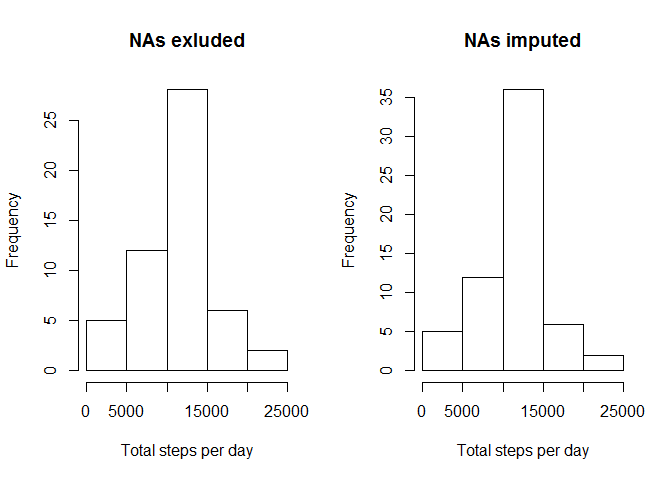
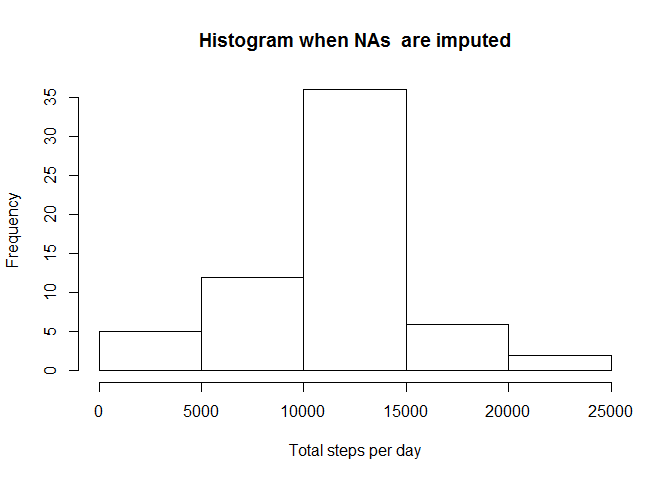
changed to a few graphs

diff --git a/PA1_template.html b/PA1_template.html
@@ -139,23 +139,24 @@ head(dataTr,5)</code></pre>
 <h5>Differences</h5>
 <pre class="r"><code>dataTrGrp &lt;- summarize(group_by(dataTr, date), sum(steps.impute))
 setnames(dataTrGrp, &quot;sum(steps.impute)&quot;, &quot;colstepsPerDay&quot;)
-par(mfcol = c(1,2))
 
 ## Histogram
-hist(stepsPerDay$colstepsPerDay, 
-     xlab=&quot;Total steps per day&quot;,  
-     main='NAs exluded')
-
 hist(dataTrGrp$colstepsPerDay,
       xlab=&quot;Total steps per day&quot;,
-     main = &quot;NAs imputed&quot;)</code></pre>
[1 lines of base64/hex data omitted]
+     main = &quot;Histogram when NAs  are imputed&quot;)</code></pre>
[1 lines of base64/hex data omitted]
 <pre class="r"><code>## Mean/Median Differences</code></pre>
+<pre class="r"><code>cat (&quot;Mean when NAs are exluded: &quot;, mean(stepsPerDay$colstepsPerDay))</code></pre>
 <pre><code>## Mean when NAs are exluded:  10766.19</code></pre>
+<pre class="r"><code>cat (&quot;Mean when NAs are imputed using the average of interval: &quot;,  mean(dataTrGrp$colstepsPerDay) )</code></pre>
 <pre><code>## Mean when NAs are imputed using the average of interval:  10765.64</code></pre>
+<pre class="r"><code>cat (&quot;Difference in Mean: &quot; , mean(stepsPerDay$colstepsPerDay) - mean(dataTrGrp$colstepsPerDay))</code></pre>
 <pre><code>## Difference in Mean:  0.549335</code></pre>
+<pre class="r"><code>cat (&quot;Median when NA are exluded: &quot;, median(stepsPerDay$colstepsPerDay) )</code></pre>
 <pre><code>## Median when NA are exluded:  10765</code></pre>
+<pre class="r"><code>cat (&quot;Mean when NA are imputed using the average of interval: &quot;,  median(dataTrGrp$colstepsPerDay) )</code></pre>
 <pre><code>## Mean when NA are imputed using the average of interval:  10762</code></pre>
+<pre class="r"><code>cat (&quot;Difference in Median: &quot; ,median(stepsPerDay$colstepsPerDay) - median(dataTrGrp$colstepsPerDay))</code></pre>
 <pre><code>## Difference in Median:  3</code></pre>
 </div>
 </div>

diff --git a/PA1_template.md b/PA1_template.md
@@ -142,16 +142,11 @@ head(dataTr,5)
 ```r
 dataTrGrp <- summarize(group_by(dataTr, date), sum(steps.impute))
 setnames(dataTrGrp, "sum(steps.impute)", "colstepsPerDay")
-par(mfcol = c(1,2))
 
 ## Histogram
-hist(stepsPerDay$colstepsPerDay, 
-     xlab="Total steps per day",  
-     main='NAs exluded')
-
 hist(dataTrGrp$colstepsPerDay,
       xlab="Total steps per day",
-     main = "NAs imputed")
+     main = "Histogram when NAs  are imputed")
 ```
 
 ![](./PA1_template_files/figure-html/unnamed-chunk-6-1.png) 
@@ -161,24 +156,48 @@ hist(dataTrGrp$colstepsPerDay,
 ```
 
 
+```r
+cat ("Mean when NAs are exluded: ", mean(stepsPerDay$colstepsPerDay))
+```
+
 ```
 ## Mean when NAs are exluded:  10766.19
+```
+
+```r
+cat ("Mean when NAs are imputed using the average of interval: ",  mean(dataTrGrp$colstepsPerDay) )
 ```
 
 ```
 ## Mean when NAs are imputed using the average of interval:  10765.64
 ```
 
+```r
+cat ("Difference in Mean: " , mean(stepsPerDay$colstepsPerDay) - mean(dataTrGrp$colstepsPerDay))
+```
+
 ```
 ## Difference in Mean:  0.549335
+```
+
+```r
+cat ("Median when NA are exluded: ", median(stepsPerDay$colstepsPerDay) )
 ```
 
 ```
 ## Median when NA are exluded:  10765
 ```
 
+```r
+cat ("Mean when NA are imputed using the average of interval: ",  median(dataTrGrp$colstepsPerDay) )
+```
+
 ```
 ## Mean when NA are imputed using the average of interval:  10762
+```
+
+```r
+cat ("Difference in Median: " ,median(stepsPerDay$colstepsPerDay) - median(dataTrGrp$colstepsPerDay))
 ```
 
 ```
